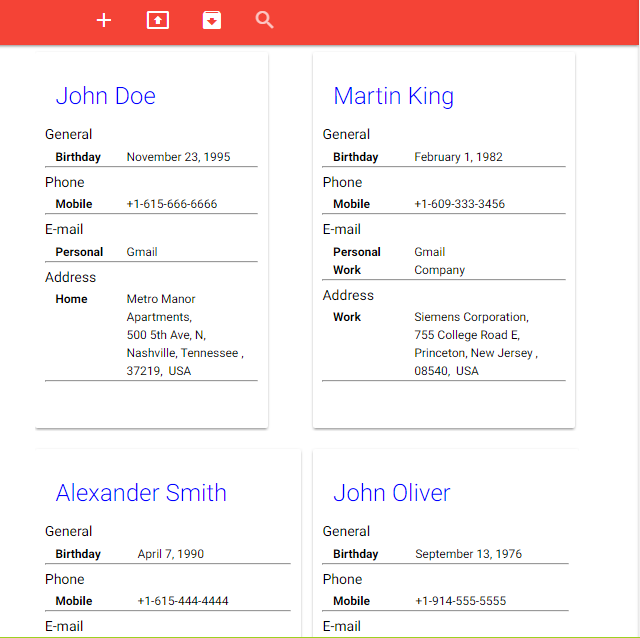
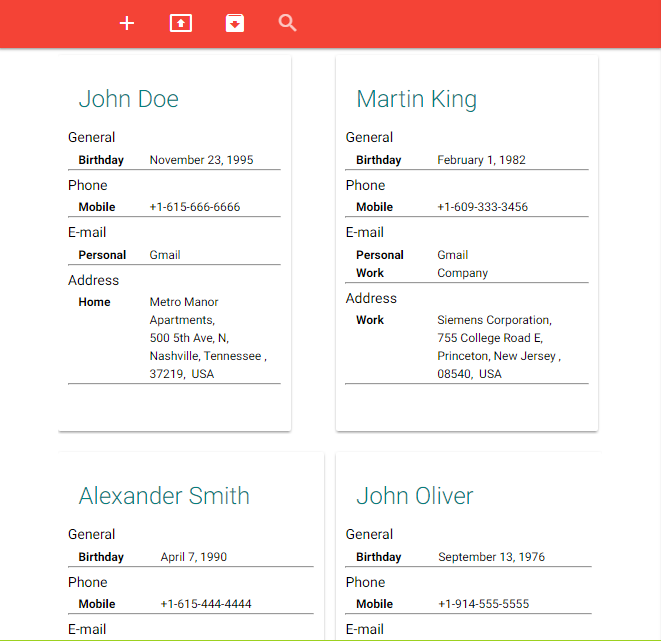
Updated screenshots

diff --git a/client/templates/contacts.html b/client/templates/contacts.html
@@ -309,7 +309,7 @@
 		<div class="col s12">
 		  <a class="green darken-1 waves-effect waves-light 
 			    btn saveButton-edit">Save</a>
-		  <a class="blue darken-2 waves-effect waves-light 
+		  <a class="teal waves-effect waves-light 
 			    btn cancelButton-edit">Cancel</a>
 		  <a class="red waves-effect waves-light 
 			    btn deleteButton-edit">Delete</a>
@@ -512,7 +512,7 @@
 		  <a class="red waves-effect waves-light 
 			    btn saveButton">
 		    Save</a>		      
-		  <a class="blue darken-2 waves-effect waves-light 
+		  <a class="teal waves-effect waves-light 
 			    btn cancelButton">Cancel</a>
 		  <a href="#" class="btn-floating"
 		     style="visibility:hidden;"></a>	
@@ -539,7 +539,7 @@
 		 id="{{getContactDisplayName
 		     this.name.first 
 		     this.name.middle
-		     this.name.last}}" style="color:blue;">
+		     this.name.last}}" style="color:teal;">
 	      {{getContactDisplayName this.name.first
 	      this.name.middle this.name.last}}
 	      </a>
